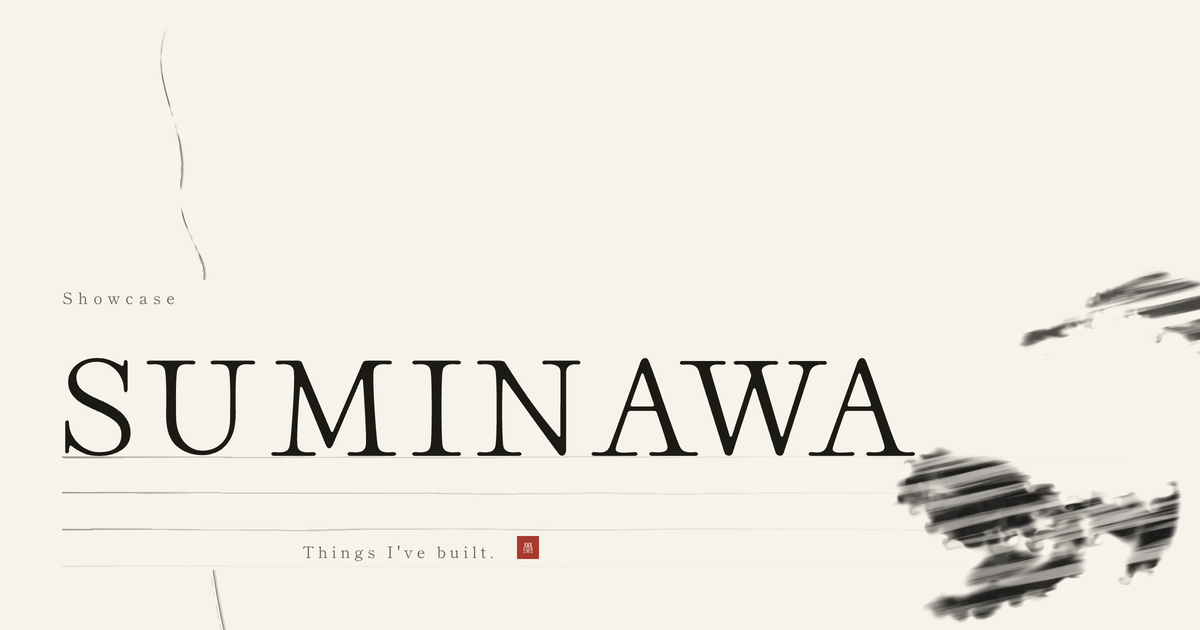
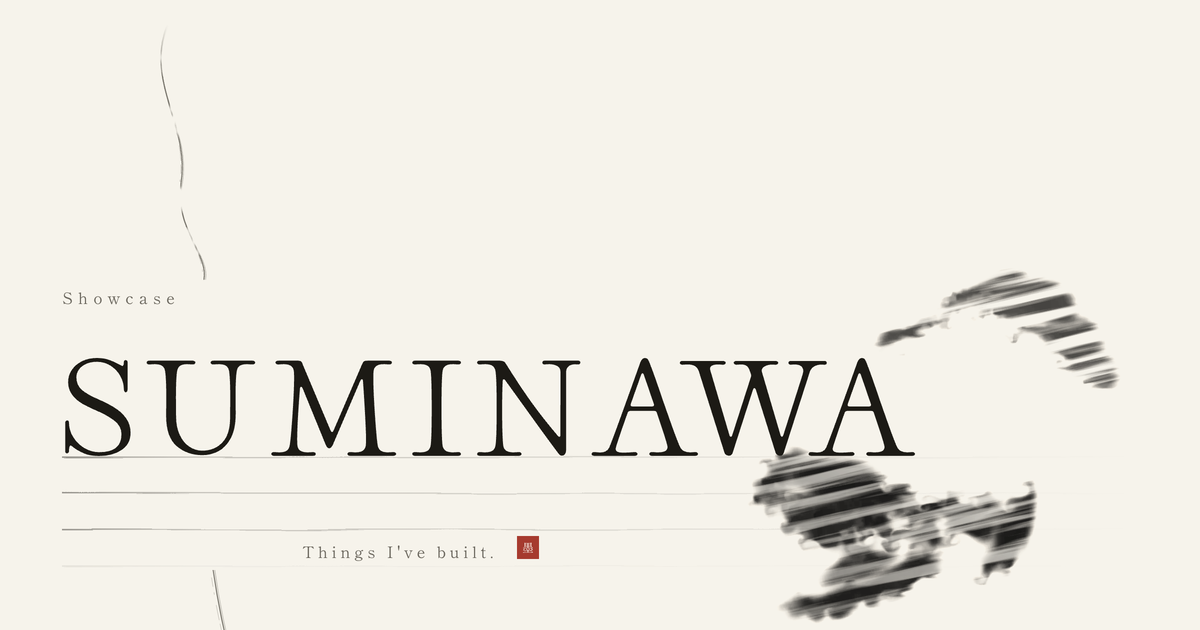
墨の横を戻し、「WA」の真上と真下に塊が来るようにする
縦を下げたときに横を直していなかった。墨の塊は左下から右上へ斜めに走るので、
下へ送るとその高さに来る部分が右へずれ、上の塊が「WA」の右外（x=887）へ
逃げていた。幅に比例して 12vw ぶん左へ戻す（-34vw → -22vw。筆そのものが
136vw で伸縮するので、px ではなく vw で戻す）。

「WA」の桁で測った墨の左端（上／字の帯／下）:
  元のハブ 1280  713 / 752 / 755   ← 下の塊が字に乗っていた
  いま     1280  734 /  —  / 560   ← 字の帯は墨なし＝隙間に座る
  元のハブ 1440  914 / 954 / 957
  いま     1440  918 /  —  / 741
上の塊は「WA」の真上、下の塊は真下（罫の帯と英文の行の右）に来る。

768〜1023px だけは筆を 4vw 右へ置く（-26vw）── 大字が小さくなるぶん
名乗りの塊が詰まり、-22vw のままだと下の塊が「Things I've built.」に
掛かるため（実測 185/255）。

字の箱 1,125 件（5 面 × 6 幅）で墨に掛かるのは名乗りの大字だけ。

Changed region(s): [[0.6167, 0.6937, 0.9867, 0.9952], [0.7092, 0.4222, 1.0, 0.6333]]

diff --git a/src/app/ryoushi.module.css b/src/app/ryoushi.module.css
@@ -328,7 +328,17 @@
     var(--hi-pad-top) + 8 * var(--hi-kei-pitch) + clamp(12px, 2.2svh, 26px) +
       0.47 * var(--hi-mark-size) - 0.322 * min(136vw, 1780px, 196svh)
   );
-  right: -34vw;
+  /*
+   * 横も、縦を下げたぶんだけ筆の流れに沿って戻す。
+   * 墨の塊は左下から右上へ斜めに走るので、下へ送るとその高さに来る部分が
+   * 右へずれる ── 何もしないと上の塊が「WA」の右外（x=887）へ逃げ、
+   * 字の真上に来ない。12vw ぶん左へ戻す（-34vw → -22vw）と、上の塊の左端が
+   * 1280px の紙で x=734、1440px で x=918 になり、元のハブの同じ高さの値
+   * （713 / 914）とほぼ重なる ── 大字の右端から 200px ほど食い込み、
+   * 上の塊が「WA」の真上、下の塊が真下（罫の帯）に来る。
+   * 幅に比例させるのは、筆そのものが 136vw で伸縮するからである。
+   */
+  right: -22vw;
   /* 196svh の上限が要る。横長で背の低い紙のとき、一筆が名乗りの上へ降りてくるのを
      この項だけが止める（背が低いほど筆は小さく、右上へ寄る）。
      ＊ 2026-09-21 に一度 -46vw / 100vw へ締めたが、元のハブと墨の置きどころが
@@ -1753,6 +1763,13 @@
   .close {
     grid-column: 1 / 11;
   }
+  /* この帯だけ筆を 4vw ぶん右へ置く。大字が小さくなるぶん名乗りの塊が
+     詰まるので、-22vw のままだと下の塊が「Things I've built.」に掛かる
+     （実測で字の箱の最暗 185/255）。768〜1023px を 2 点で焼いて決めた */
+  .stroke {
+    right: -26vw;
+  }
+
   /* 柱は 2 列目から。入口の行・入口の版面・脈の通り道が同じ値を読む */
   .paper {
     --hi-column: calc((2 * 100% + 2 * var(--hi-gap)) / 12);
